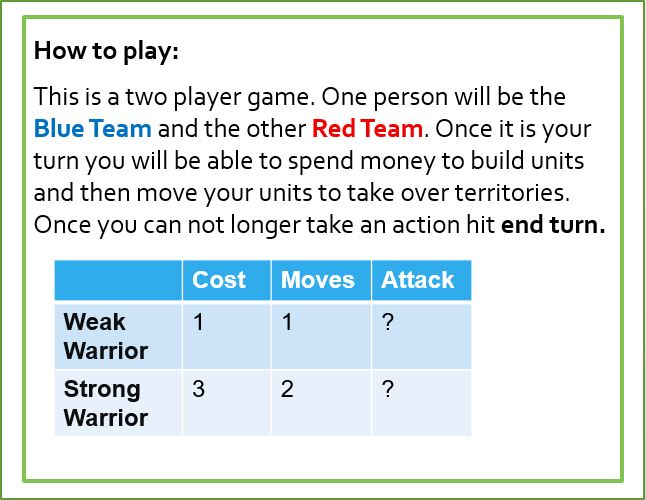
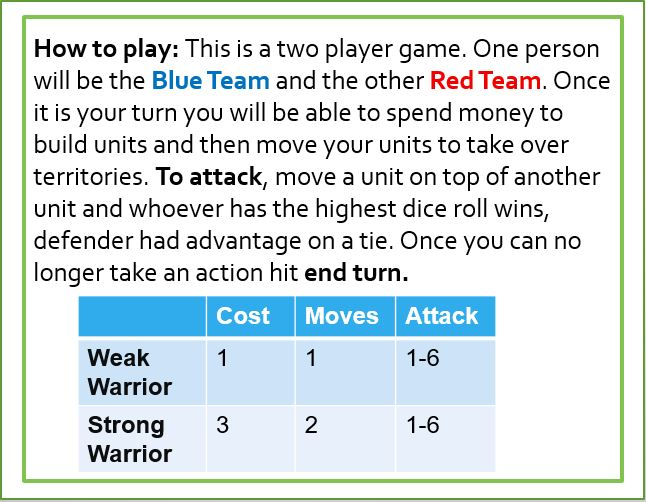
modified:   RacketProject.pptx 	modified:   Web_Page_Suff/css/menu.css 	new file:   Web_Page_Suff/img/Martin.jpg 	new file:   Web_Page_Suff/img/Yusuf.jpg 	new file:   Web_Page_Suff/img/game11.jpg 	new file:   Web_Page_Suff/img/game22.jpg 	modified:   Web_Page_Suff/img/game3.JPG 	new file:   Web_Page

diff --git a/game_web_page.html b/game_web_page.html
@@ -19,10 +19,14 @@ Created: MR 04/25/2016
   </style>
 </head>
 <body>
-  <div id="slide_things" class="w3-content" style="max-width:600px">
-    <img class="mySlides" src="Web_Page_Suff/img/game1.jpg" style="width:100%">
-    <img class="mySlides" src="Web_Page_Suff/img/game2.jpg" style="width:100%">
-    <img class="mySlides" src="Web_Page_Suff/img/game3.jpg" style="width:100%">
+  <div id="slide_things" class="w3-content" >
+    <a style="padding-left: 25%; padding-bottom:900px;" href="https://github.com/oplS16projects/Martin-and-Mulyo-RacketFantasy/blob/master/README.md">Git Readme</a>
+    <img class="mySlides" src="Web_Page_Suff/img/game11.jpg" style="width:100%;margin-left:180px;max-width:600px">
+    <img class="mySlides" src="Web_Page_Suff/img/game22.jpg" style="width:100%;margin-left:180px;max-width:600px">
+    <img class="mySlides" src="Web_Page_Suff/img/game33.jpg" style="width:100%;margin-left:180px;max-width:600px">
+    <img class="mySlides" src="Web_Page_Suff/img/Martin.jpg" style="width:80%;">
+    <img class="mySlides" src="Web_Page_Suff/img/helper.jpg" style="width:80%;margin-left:140px">
+    <img class="mySlides" src="Web_Page_Suff/img/Yusuf.jpg" style="width:140%;margin-left: -200px">
   </div>
 
   <div class="w3-center">
@@ -33,6 +37,9 @@ Created: MR 04/25/2016
     <button class="w3-btn demo" onclick="currentDiv(1)">1</button>
     <button class="w3-btn demo" onclick="currentDiv(2)">2</button>
     <button class="w3-btn demo" onclick="currentDiv(3)">3</button>
+    <button class="w3-btn demo" onclick="currentDiv(4)">4</button>
+    <button class="w3-btn demo" onclick="currentDiv(5)">5</button>
+    <button class="w3-btn demo" onclick="currentDiv(6)">6</button>
   </div>
 
   <script>

diff --git a/Web_Page_Suff/css/menu.css b/Web_Page_Suff/css/menu.css
@@ -5,7 +5,8 @@ Created: MR 04/25/2016
 */
 body {
 
-  background-color: black;
+  background-color: green;
+  background-repeat:no-repeat;
   margin:  0px;
   padding: 0px;
   width: 100%;
@@ -14,5 +15,5 @@ body {
 .mySlides {display:none}
 
 #slide_things {
-  margin-top: 200px;
+  margin-top: 150px;
 }
